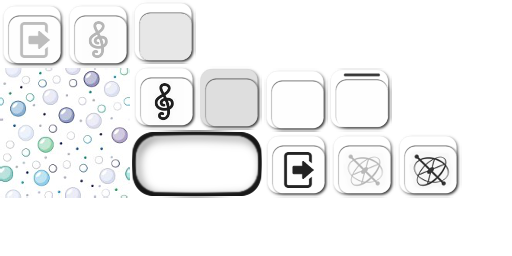
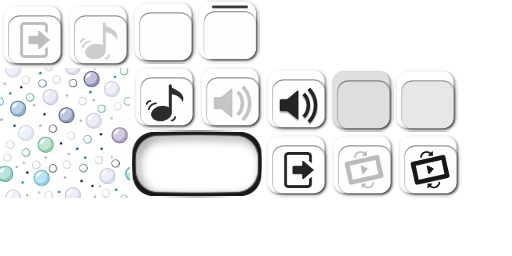
1. Sound on/off button. 2. Updated skin.

diff --git a/SortItOut/src/com/me/sortitout/MenuScreen.java b/SortItOut/src/com/me/sortitout/MenuScreen.java
@@ -57,10 +57,10 @@ public class MenuScreen implements Screen {
 						if (obj.equals(true)){
 							Gdx.app.exit();
 						}else {
-							Config.getInst().buttonSound.play();
+							Config.getInst().playSnd(Config.SND_BUTTON);
 						}
 					}
-				}.text("Are you sure?").button("Exit", true).button("Back", false).key(Keys.ENTER, true)
+				}.text("Exit game?").button(" Exit ", true).button(" Back ", false).key(Keys.ENTER, true)
 				.key(Keys.ESCAPE, false);
 	        final TextButton button1 = new TextButton("New game", skin);
 	        final Widget widget1 = new Widget();
@@ -79,14 +79,21 @@ public class MenuScreen implements Screen {
 	        table.row();
 	        table.add(button3).width(buttonWidth).height(buttonHeight);
 	        
-	        Config.getInst().menuButton = new Button(skin, "button-snd");
+	        Config.getInst().menuButton = new Button(skin, "button-mus");
 	        Config.getInst().menuButton.setSize(buttonHeight, buttonHeight);
-	        stage.addActor(Config.getInst().menuButton);
+	        
+	        final Button sndMuteButton = new Button(skin, "button-snd");
+	        sndMuteButton.setSize(buttonHeight, buttonHeight);
+	        Table buttonTable = new Table();
+	        buttonTable.bottom().left();
+	        buttonTable.add(Config.getInst().menuButton);
+	        buttonTable.add(sndMuteButton);
+	        stage.addActor(buttonTable);
 	        
 	        Config.getInst().menuButton.addListener(new ClickListener() {
 	    		public void clicked(com.badlogic.gdx.scenes.scene2d.InputEvent event, float x, float y) {
 	    			//super.touchDown(event, x, y, pointer, button);
-	    			Config.getInst().buttonSound.play();
+	    			Config.getInst().playSnd(Config.SND_BUTTON);
 	    			if (Config.getInst().menuButton.isChecked()){
 	    				Config.getInst().pauseMusic();
 	    			}else {
@@ -95,12 +102,23 @@ public class MenuScreen implements Screen {
 	    				
 	        	}
 	    	});	        
+	        sndMuteButton.addListener(new ClickListener() {
+        		public void clicked(com.badlogic.gdx.scenes.scene2d.InputEvent event, float x, float y) {
+        			//super.touchDown(event, x, y, pointer, button);
+        			if (sndMuteButton.isChecked()) {
+        				Config.mute = true;
+        			} else {
+        				Config.mute = false;
+        			}
+        				
+            	}
+        	});
 	        button1.addListener(new ClickListener() {
 	        		public void clicked(com.badlogic.gdx.scenes.scene2d.InputEvent event, float x, float y) {
 	        			//super.touchDown(event, x, y, pointer, button);
 	        			appHandler.getGameObject().shuffle();
 	        			button2.setDisabled(false);
-	        			Config.getInst().buttonSound.play();
+	        			Config.getInst().playSnd(Config.SND_BUTTON);
 	        			appHandler.showGame();
 	            	}
 	        	});
@@ -108,7 +126,7 @@ public class MenuScreen implements Screen {
         		public void clicked(com.badlogic.gdx.scenes.scene2d.InputEvent event, float x, float y) {
         			//super.touchDown(event, x, y, pointer, button);
         			if (!button2.isDisabled()) {
-        				Config.getInst().buttonSound.play();
+        				Config.getInst().playSnd(Config.SND_BUTTON);
         				appHandler.showGame();
         			}
             	}
@@ -116,7 +134,7 @@ public class MenuScreen implements Screen {
 	        button3.addListener(new ClickListener() {
 	        	public void clicked(com.badlogic.gdx.scenes.scene2d.InputEvent event, float x, float y) {
         			//super.touchDown(event, x, y, pointer, button);
-	        		Config.getInst().buttonSound.play();
+	        		Config.getInst().playSnd(Config.SND_BUTTON);
 	        		exitDialog.show(stage);
             	}
         	});
@@ -147,7 +165,7 @@ public class MenuScreen implements Screen {
 		Gdx.gl.glClear(GL10.GL_COLOR_BUFFER_BIT);
         stage.act(Gdx.graphics.getDeltaTime());
         stage.draw();
-        //Table.drawDebug(stage); // This is optional, but enables debug lines for tables.
+        //Table.drawDebug(stage); // Enables debug lines for tables.
 	}
 
 	@Override

diff --git a/SortItOut/src/com/me/sortitout/GameScreen.java b/SortItOut/src/com/me/sortitout/GameScreen.java
@@ -64,7 +64,7 @@ public class GameScreen implements Screen {
 	    //gameScene.setBackground(skin.getTiledDrawable("background"));
 	    buttonGravity = new Button(skin, "button-gra");
 	    buttonExit = new Button(skin, "button-exit");
-	    Config.getInst().gameButton = new Button(skin, "button-snd");
+	    Config.getInst().gameButton = new Button(skin, "button-mus");
 
 	    if (!Gdx.input.isPeripheralAvailable(Peripheral.Accelerometer)){
 	    	buttonGravity.setDisabled(true);
@@ -74,17 +74,17 @@ public class GameScreen implements Screen {
 	    gameOverDialog = new Dialog("", skin, "default") {
 						protected void result (Object obj) {
 							if (obj.equals(true)){
-								Config.getInst().buttonSound.play();
+								Config.getInst().playSnd(Config.SND_BUTTON);
 								game.shuffle();
 								Gdx.input.setInputProcessor(multiplexer);
 								label1.setVisible(true);
 							} else {
-								Config.getInst().buttonSound.play();
+								Config.getInst().playSnd(Config.SND_BUTTON);
 								gameOverDialog.hide();
 								appHandler.showMenu();
 							}
 						}
-					}.text("You win!").button("Exit", false).button("New", true).key(Keys.ENTER, true).key(Keys.ESCAPE, false);
+					}.text("You win!").button(" Menu ", false).button(" New ", true).key(Keys.ENTER, true).key(Keys.ESCAPE, false);
 		label1 = new Label("", skin);
 		label1.setAlignment(Align.center);
 		label2 = new Label("", skin);
@@ -105,7 +105,7 @@ public class GameScreen implements Screen {
 		Config.getInst().gameButton.addListener(new ClickListener() {
     		public void clicked(com.badlogic.gdx.scenes.scene2d.InputEvent event, float x, float y) {
     			//super.touchDown(event, x, y, pointer, button);
-    			Config.getInst().buttonSound.play();
+    			Config.getInst().playSnd(Config.SND_BUTTON);
     			if (Config.getInst().gameButton.isChecked()){
     				Config.getInst().pauseMusic();
     			}else {
@@ -118,7 +118,7 @@ public class GameScreen implements Screen {
 			public void clicked(com.badlogic.gdx.scenes.scene2d.InputEvent event, float x, float y) {
 			//super.touchDown(event, x, y, pointer, button);
 				if (!buttonGravity.isDisabled()) {
-					Config.getInst().buttonSound.play();
+					Config.getInst().playSnd(Config.SND_BUTTON);
 				}
 				game.setAccelerometer(!buttonGravity.isChecked());
     		}
@@ -126,7 +126,7 @@ public class GameScreen implements Screen {
 		buttonExit.addListener(new ClickListener() {
 			public void clicked(com.badlogic.gdx.scenes.scene2d.InputEvent event, float x, float y) {
 			//super.touchDown(event, x, y, pointer, button);
-				Config.getInst().buttonSound.play();
+				Config.getInst().playSnd(Config.SND_BUTTON);
 				appHandler.showMenu();
 			}
 		});

diff --git a/SortItOut/src/com/me/sortitout/Config.java b/SortItOut/src/com/me/sortitout/Config.java
@@ -9,17 +9,26 @@ public class Config {
 	
 	private static Config inst;
 	//Sound
-	public Sound 	
+	private Sound 	
 			blockSound,
 			newPosSound,
 			gameOverSound,
 			edgeSound,
 			buttonSound;
+	//Sound IDs
+	public static final int 
+		SND_BLOCK = 1,
+		SND_NEWPOS = 2,
+		SND_GAMEOVER = 3,
+		SND_EDGE = 4,
+		SND_BUTTON = 5;
 	//Music
 	public Music
 			gameMusic,
 			menuMusic;
 	public Button menuButton, gameButton;
+
+	public static Boolean mute = false;
 	//Physics parameters
 	public static final float BLOCK_SIZE = 1f; //meters
 	public static final float MAX_SPEED = BLOCK_SIZE*6;
@@ -85,6 +94,23 @@ public class Config {
 		music.play();
 		menuButton.setChecked(false);
 		gameButton.setChecked(false);
+	}
+	public void playSnd (int sndID) {
+		this.playSnd(sndID, 1, 1);
+	}
+	public void playSnd (int sndID, float volume) {
+		this.playSnd(sndID, volume, 1);
+	}
+	public void playSnd (int sndID, float volume, float pitch) {
+		if (!mute) {
+			switch (sndID) {
+				case SND_BLOCK: blockSound.play(volume, pitch, 0); break;
+				case SND_BUTTON: buttonSound.play(volume, pitch, 0); break;
+				case SND_NEWPOS: newPosSound.play(volume, pitch, 0); break;
+				case SND_EDGE: edgeSound.play(volume, pitch, 0); break;
+				case SND_GAMEOVER: gameOverSound.play(volume, pitch, 0);
+			}
+		}
 	}
 	private void audioDispose(){
 		//Music

diff --git a/SortItOut/src/com/me/sortitout/ContactHandler.java b/SortItOut/src/com/me/sortitout/ContactHandler.java
@@ -28,10 +28,10 @@ public class ContactHandler implements ContactListener{
 			float velosity=Math.max(A.getLinearVelocity().len()/Config.MAX_SPEED, B.getLinearVelocity().len()/Config.MAX_SPEED);
 			if (game.itemPositionsChanged()) {		
 				if (A.getUserData() == null || B.getUserData() == null) {
-					Config.getInst().edgeSound.play(0.5f, 1.5f, 0);
+					Config.getInst().playSnd(Config.SND_EDGE, velosity*0.5f, 1.5f);
 					//aBody.setLinearVelocity(aBody.getLinearVelocity().scl(4f));
 				} else {
-					Config.getInst().blockSound.play(velosity, Math.max(1, velosity*1.2f), 0);
+					Config.getInst().playSnd(Config.SND_BLOCK, velosity, Math.max(1, velosity*1.2f));
 				}
 				
 				Item item;
@@ -47,7 +47,7 @@ public class ContactHandler implements ContactListener{
 					if (cnt == 15) {
 						game.gameOver();
 					}else {
-						Config.getInst().newPosSound.play();
+						Config.getInst().playSnd(Config.SND_NEWPOS);
 					}
 				}
 				count=cnt;

diff --git a/SortItOut/src/com/me/sortitout/GameObject.java b/SortItOut/src/com/me/sortitout/GameObject.java
@@ -287,7 +287,7 @@ public class GameObject {
 		return String.format(Config.TIME_FORMAT, min, sec);	
 	}
 	public void gameOver() {
-		Config.getInst().gameOverSound.play();
+		Config.getInst().playSnd(Config.SND_GAMEOVER);
 		active = false;
 		appHandler.getGameScreen().showDialog();
 	}
